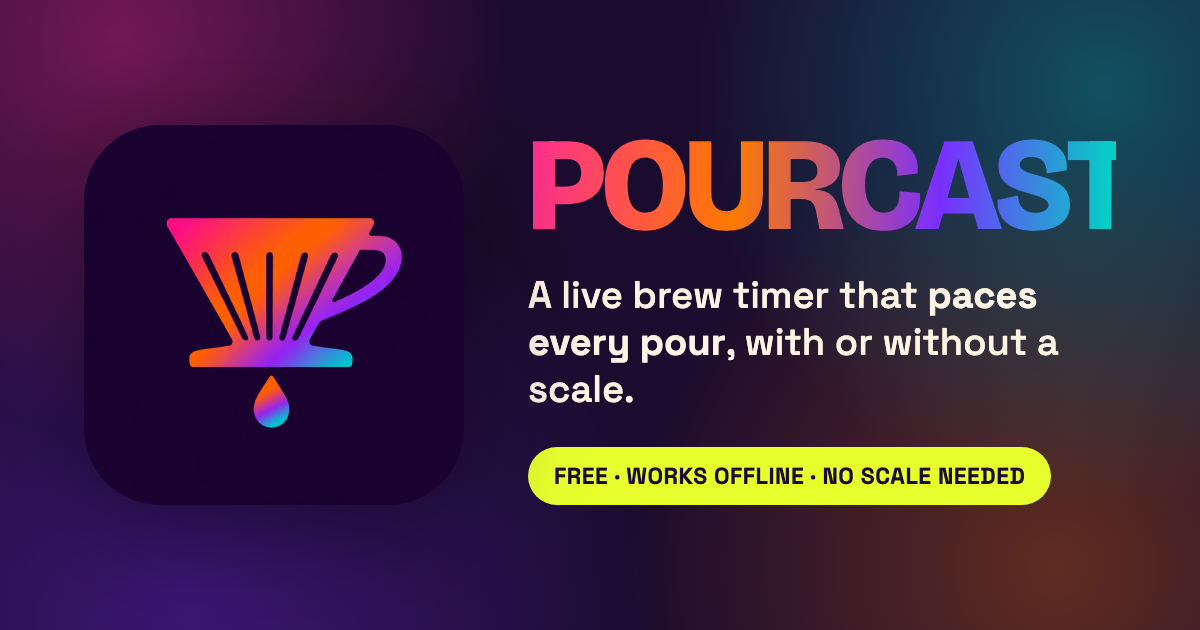
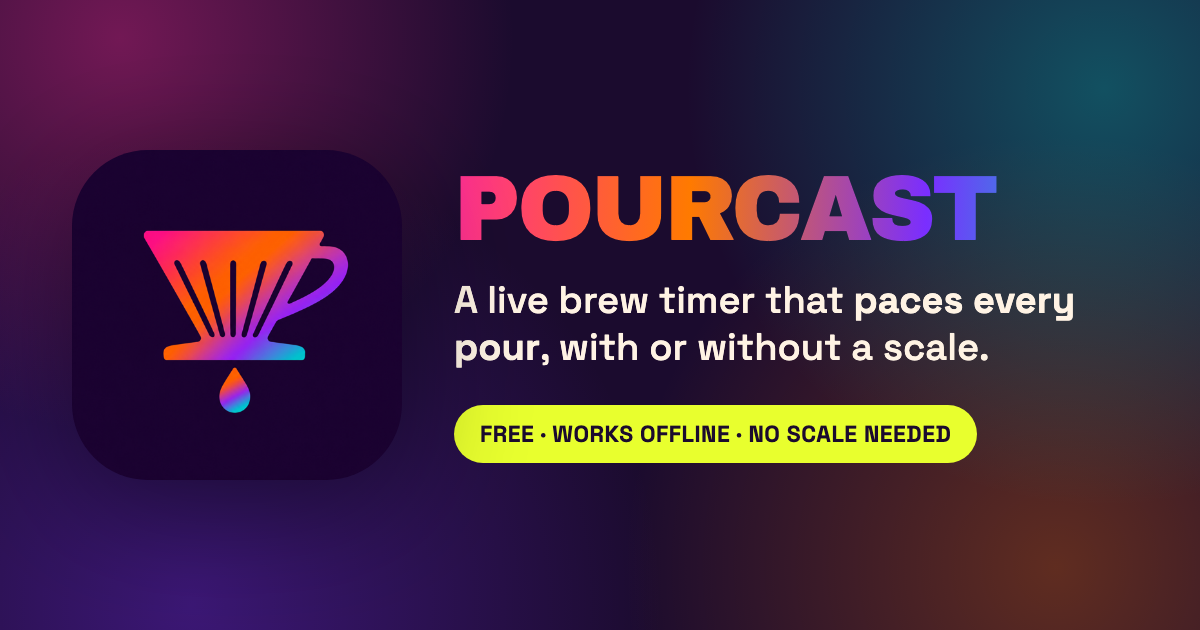
Release v1.4.8

diff --git a/og-image.html b/og-image.html
@@ -4,7 +4,7 @@
 <meta charset="UTF-8">
 <link rel="preconnect" href="https://fonts.googleapis.com">
 <link rel="preconnect" href="https://fonts.gstatic.com" crossorigin>
-<link href="https://fonts.googleapis.com/css2?family=Bricolage+Grotesque:opsz,wght@12..96,700;12..96,800&family=Space+Grotesk:wght@400;500;700&display=swap" rel="stylesheet">
+<link href="https://fonts.googleapis.com/css2?family=Archivo+Black&family=Space+Grotesk:wght@400;500;700&display=swap" rel="stylesheet">
 <style>
   *{margin:0;padding:0;box-sizing:border-box}
   html,body{width:1200px;height:630px}
@@ -16,15 +16,15 @@
       radial-gradient(circle at 16% 96%, rgba(122,46,255,.34), transparent 40%),
       radial-gradient(circle at 88% 90%, rgba(255,122,0,.30), transparent 36%),
       #1B0B2E;
-    display:flex;align-items:center;gap:64px;
-    padding:0 84px;font-family:'Space Grotesk',system-ui,sans-serif;
+    display:flex;align-items:center;gap:52px;
+    padding:0 72px;font-family:'Space Grotesk',system-ui,sans-serif;
   }
-  .icon{width:380px;height:380px;flex:0 0 auto;filter:drop-shadow(0 24px 60px rgba(0,0,0,.45))}
+  .icon{width:330px;height:330px;flex:0 0 auto;filter:drop-shadow(0 24px 60px rgba(0,0,0,.45))}
   .icon img{width:100%;height:100%;display:block;border-radius:76px}
   .txt{flex:1 1 auto;min-width:0}
   .wordmark{
-    font-family:'Bricolage Grotesque',sans-serif;font-weight:800;
-    font-size:132px;line-height:.92;letter-spacing:-4px;
+    font-family:'Archivo Black',sans-serif;font-weight:400;
+    font-size:92px;line-height:.92;letter-spacing:-3px;
     background:linear-gradient(92deg,#FF2E93,#FF7A00 35%,#7A2EFF 70%,#00D6C3);
     -webkit-background-clip:text;background-clip:text;-webkit-text-fill-color:transparent;color:transparent;
   }

diff --git a/pourcast-ios/www/styles.css b/pourcast-ios/www/styles.css
@@ -27,7 +27,7 @@ header{margin-bottom:14px}
 #hdrUnit{padding:8px 10px;min-width:42px;text-align:center}
 .hdr-modes{margin-top:12px;width:-moz-fit-content;width:fit-content}
 @media (max-width:420px){h1{font-size:34px}body.burnt h1{font-size:32px}body.adobe h1{font-size:28px}body.sage h1{font-size:28px}}
-h1{font-family:'Bricolage Grotesque',sans-serif;font-weight:800;font-size:44px;line-height:.95;letter-spacing:-.02em;text-transform:uppercase;
+h1{font-family:'Archivo Black',sans-serif;font-weight:400;font-size:40px;line-height:.95;letter-spacing:-.02em;text-transform:uppercase;
   background:linear-gradient(92deg,var(--magenta),var(--orange) 35%,var(--violet) 70%,var(--teal));
   -webkit-background-clip:text;background-clip:text;color:transparent;-webkit-text-stroke:1.5px var(--ink);}
 .tag{font-size:12px;font-weight:700;letter-spacing:.14em;text-transform:uppercase;margin-top:8px;line-height:1.45;overflow-wrap:break-word}

diff --git a/styles.css b/styles.css
@@ -27,7 +27,7 @@ header{margin-bottom:14px}
 #hdrUnit{padding:8px 10px;min-width:42px;text-align:center}
 .hdr-modes{margin-top:12px;width:-moz-fit-content;width:fit-content}
 @media (max-width:420px){h1{font-size:34px}body.burnt h1{font-size:32px}body.adobe h1{font-size:28px}body.sage h1{font-size:28px}}
-h1{font-family:'Bricolage Grotesque',sans-serif;font-weight:800;font-size:44px;line-height:.95;letter-spacing:-.02em;text-transform:uppercase;
+h1{font-family:'Archivo Black',sans-serif;font-weight:400;font-size:40px;line-height:.95;letter-spacing:-.02em;text-transform:uppercase;
   background:linear-gradient(92deg,var(--magenta),var(--orange) 35%,var(--violet) 70%,var(--teal));
   -webkit-background-clip:text;background-clip:text;color:transparent;-webkit-text-stroke:1.5px var(--ink);}
 .tag{font-size:12px;font-weight:700;letter-spacing:.14em;text-transform:uppercase;margin-top:8px;line-height:1.45;overflow-wrap:break-word}

diff --git a/index.html b/index.html
@@ -55,8 +55,8 @@
   ]
 }
 </script>
-<link href="https://fonts.googleapis.com/css2?family=Bricolage+Grotesque:opsz,wght@12..96,400;12..96,700;12..96,800&family=Space+Grotesk:wght@400;500;700&display=swap" rel="stylesheet">
-<link rel="stylesheet" href="styles.css?v=1.4.7">
+<link href="https://fonts.googleapis.com/css2?family=Archivo+Black&family=Bricolage+Grotesque:opsz,wght@12..96,400;12..96,700;12..96,800&family=Space+Grotesk:wght@400;500;700&display=swap" rel="stylesheet">
+<link rel="stylesheet" href="styles.css?v=1.4.8">
 </head>
 <body>
 <div class="wrap">
@@ -376,6 +376,6 @@
 </div>
 </div>
 
-<script src="app.js?v=1.4.7"></script>
+<script src="app.js?v=1.4.8"></script>
 </body>
 </html>

diff --git a/pourcast-ios/www/index.html b/pourcast-ios/www/index.html
@@ -55,8 +55,8 @@
   ]
 }
 </script>
-<link href="https://fonts.googleapis.com/css2?family=Bricolage+Grotesque:opsz,wght@12..96,400;12..96,700;12..96,800&family=Space+Grotesk:wght@400;500;700&display=swap" rel="stylesheet">
-<link rel="stylesheet" href="styles.css?v=1.4.7">
+<link href="https://fonts.googleapis.com/css2?family=Archivo+Black&family=Bricolage+Grotesque:opsz,wght@12..96,400;12..96,700;12..96,800&family=Space+Grotesk:wght@400;500;700&display=swap" rel="stylesheet">
+<link rel="stylesheet" href="styles.css?v=1.4.8">
 </head>
 <body>
 <div class="wrap">
@@ -376,6 +376,6 @@
 </div>
 </div>
 
-<script src="app.js?v=1.4.7"></script>
+<script src="app.js?v=1.4.8"></script>
 </body>
 </html>

diff --git a/app.js b/app.js
@@ -1653,7 +1653,7 @@ function renderAge(){
   chip.style.display='block';chip.className='age '+a.cls;chip.textContent=a.txt;
 }
 
-const APP_VERSION='1.4.7';
+const APP_VERSION='1.4.8';
 let theme='max';
 const THEME_ORDER=['max','sage','burnt'];
 const THEME_LABEL={max:'Max',sage:'Haze',burnt:'Burnt'};

diff --git a/pourcast-ios/www/app.js b/pourcast-ios/www/app.js
@@ -1653,7 +1653,7 @@ function renderAge(){
   chip.style.display='block';chip.className='age '+a.cls;chip.textContent=a.txt;
 }
 
-const APP_VERSION='1.4.7';
+const APP_VERSION='1.4.8';
 let theme='max';
 const THEME_ORDER=['max','sage','burnt'];
 const THEME_LABEL={max:'Max',sage:'Haze',burnt:'Burnt'};

diff --git a/CHANGELOG.md b/CHANGELOG.md
@@ -10,6 +10,11 @@ Versioning follows [Semantic Versioning](https://semver.org/): MAJOR.MINOR.PATCH
 
 _Native (Capacitor/iOS) Bluetooth is implemented in code but still needs verification on a real device + scale before an iOS/App Store release (see `pourcast-ios/RUNBOOK.md`). The web build is unaffected by it._
 
+## [1.4.8] - 2026-08-10
+
+### Changed
+- Switched the **POURCAST** wordmark to Archivo Black for a cleaner, more confident logo. The previous Bricolage Grotesque had quirky P/A/T letterforms. Buttons, headings, and the timer keep Bricolage. The social share image was updated to match.
+
 ## [1.4.7] - 2026-08-10
 
 ### Added
